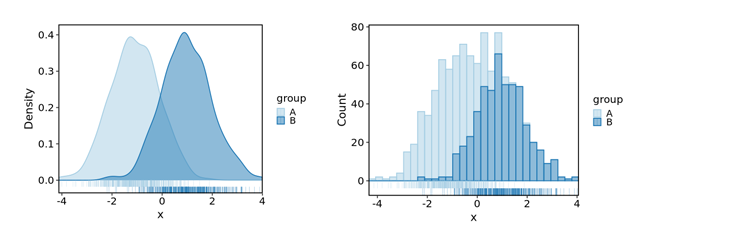
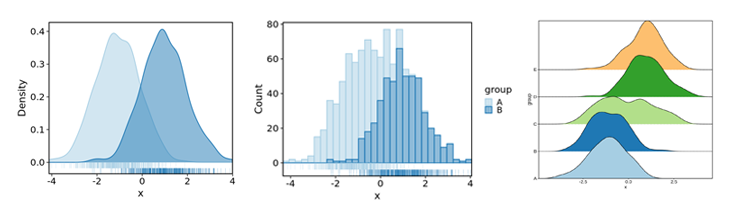
deps: add ggridges package

diff --git a/README.md b/README.md
@@ -49,7 +49,7 @@ $ conda install pwwang::r-plotthis
 
 ![chord-upset-venn](man/figures/chord-upset-venn.png)
 
-[`DensityPlot`][16] / [`Histogram`][16]
+[`DensityPlot`][16] / [`Histogram`][16] / [`RidgePlot`][23]
 
 ![density-histogram](man/figures/density-histogram.png)
 
@@ -100,3 +100,4 @@ $ conda install pwwang::r-plotthis
 [20]: https://pwwang.github.io/plotthis/reference/gsea.html
 [21]: https://pwwang.github.io/plotthis/reference/radarplot.html
 [22]: https://pwwang.github.io/plotthis/reference/sankeyplot.html
+[23]: https://pwwang.github.io/plotthis/reference/RidgePlot.html
